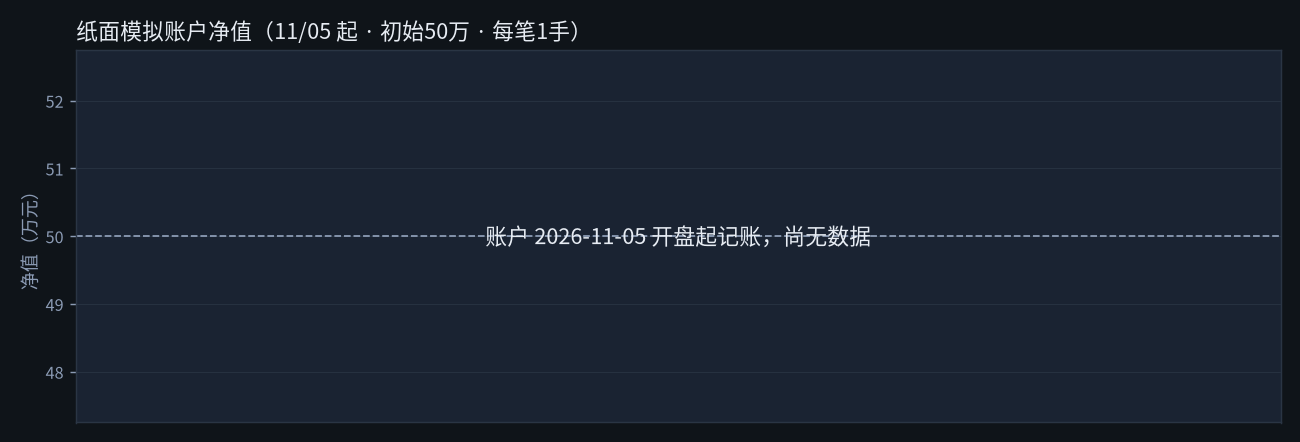
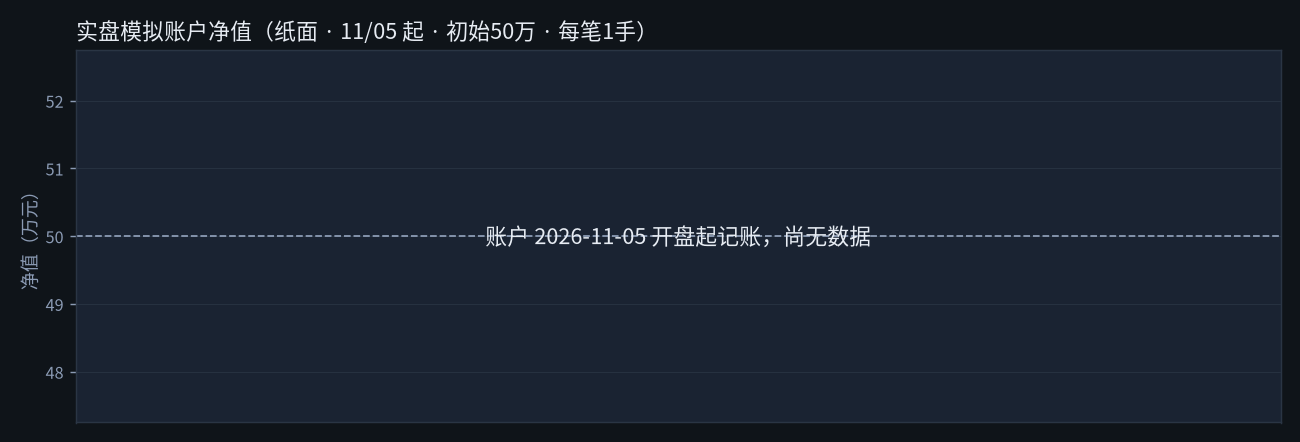
daily: 2026-11-04

Changed region(s): [[0.2154, 0.0294, 0.4923, 0.1176], [0.0615, 0.0294, 0.0923, 0.1176]]

diff --git a/index.html b/index.html
@@ -93,7 +93,7 @@ table{display:table}
 <header><h1>股指期货量化系统 · 每日复盘</h1>
 <p class="sub">主策略 PF-K（中证1000股指期货 IM）· 今天做了什么、明天做什么 · 最新在上</p></header>
 <div class="disclaimer"><strong>免责声明</strong>：独立量化系统的研究复盘，仅供参考学习，不构成投资建议，不代下单。</div>
-<h2>纸面模拟账户（11/05 起 · 初始50万 · 每笔1手）</h2>
+<h2>实盘模拟账户（11/5起）<span class="sub" style="font-size:.8em;font-weight:400"> · 纸面记账 · 初始50万 · 每笔1手</span></h2>
 <img class="chart" src="assets/ledger_latest.png" alt="纸面账户净值曲线">
 <table><tbody>
 <tr><td>当前净值</td><td class="num"><strong>500,000 元</strong></td><td>收益率 <strong>+0.00%</strong> · 最大回撤 0.00%</td></tr>

diff --git a/reports/2026-11-04.html b/reports/2026-11-04.html
@@ -134,7 +134,7 @@ table{display:table}
 <li>第3天收盘前没止损，就在尾盘平掉；中间不加仓、不移动止损。</li>
 </ul></div>
 
-<h2>四、纸面模拟账户（11/05 起 · 初始50万 · 每笔1手）</h2>
+<h2>四、实盘模拟账户（11/5起）<span class="sub" style="font-size:.8em;font-weight:400"> · 纸面记账 · 初始50万 · 每笔1手</span></h2>
 <img class="chart" src="../assets/2026-11-04/ledger.png" alt="纸面账户净值曲线">
 <table><tbody>
 <tr><td>当前净值</td><td class="num"><strong>500,000 元</strong></td><td>收益率 <strong>+0.00%</strong> · 最大回撤 0.00%</td></tr>
